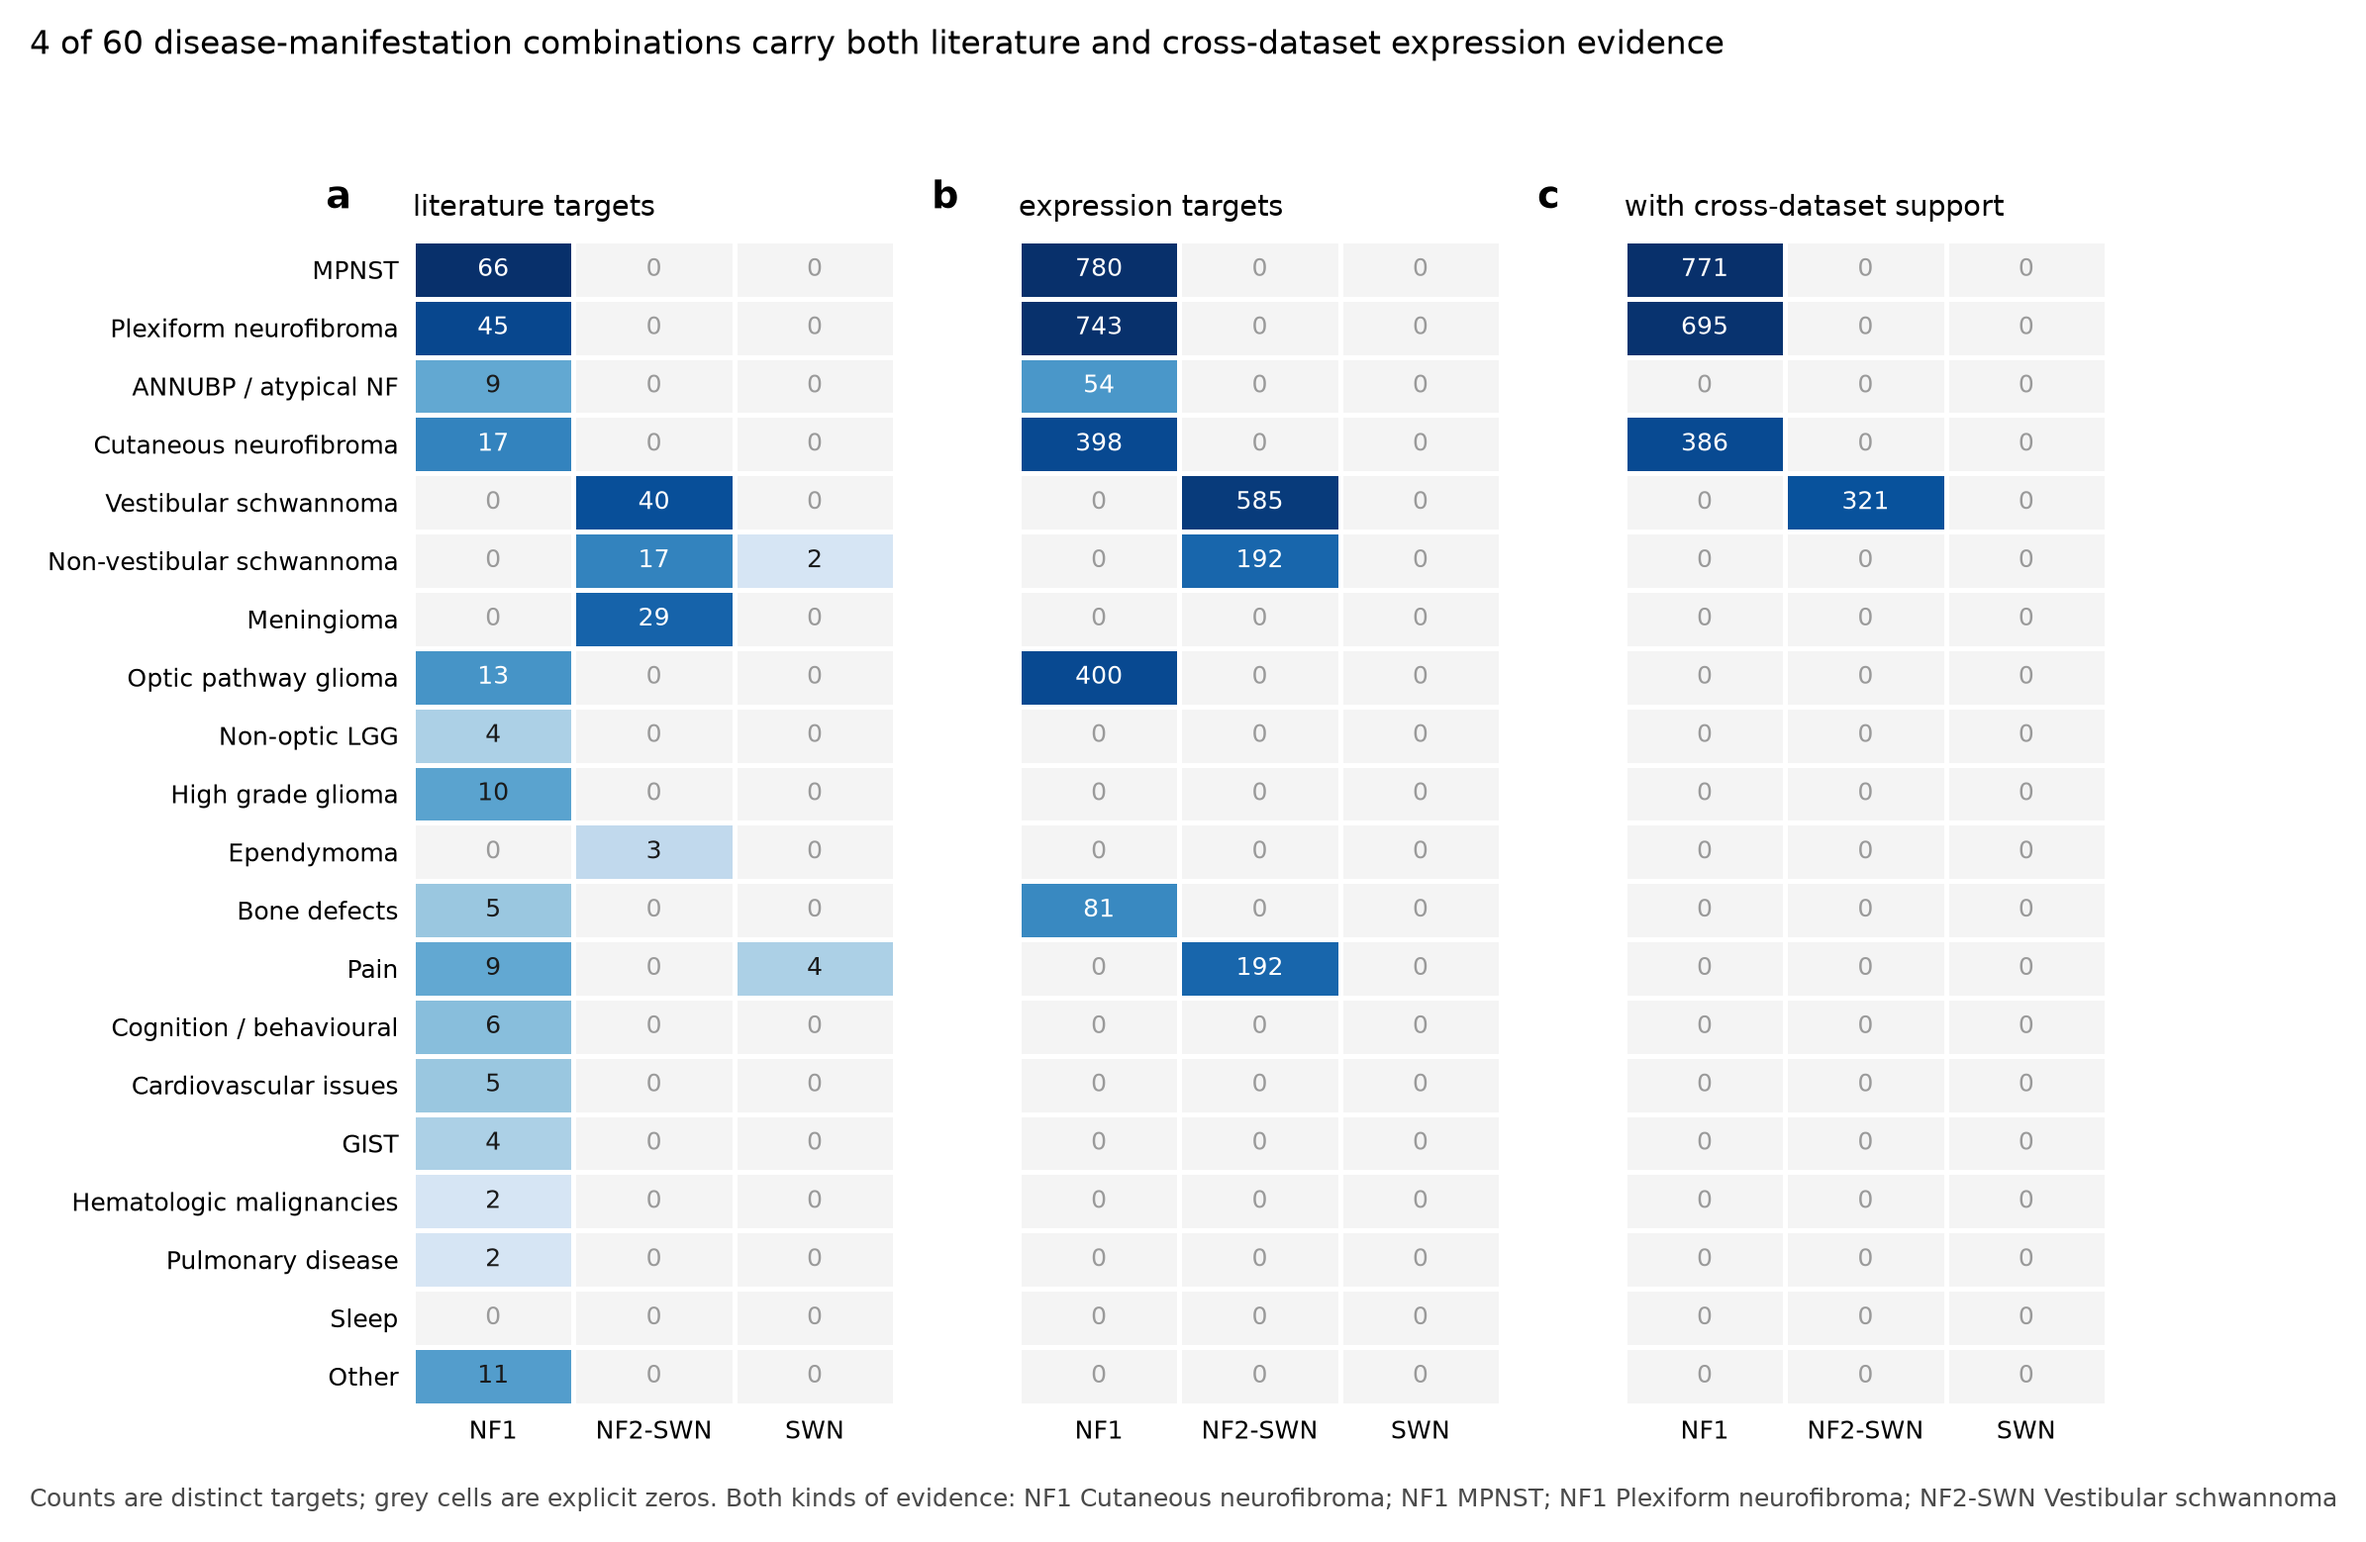
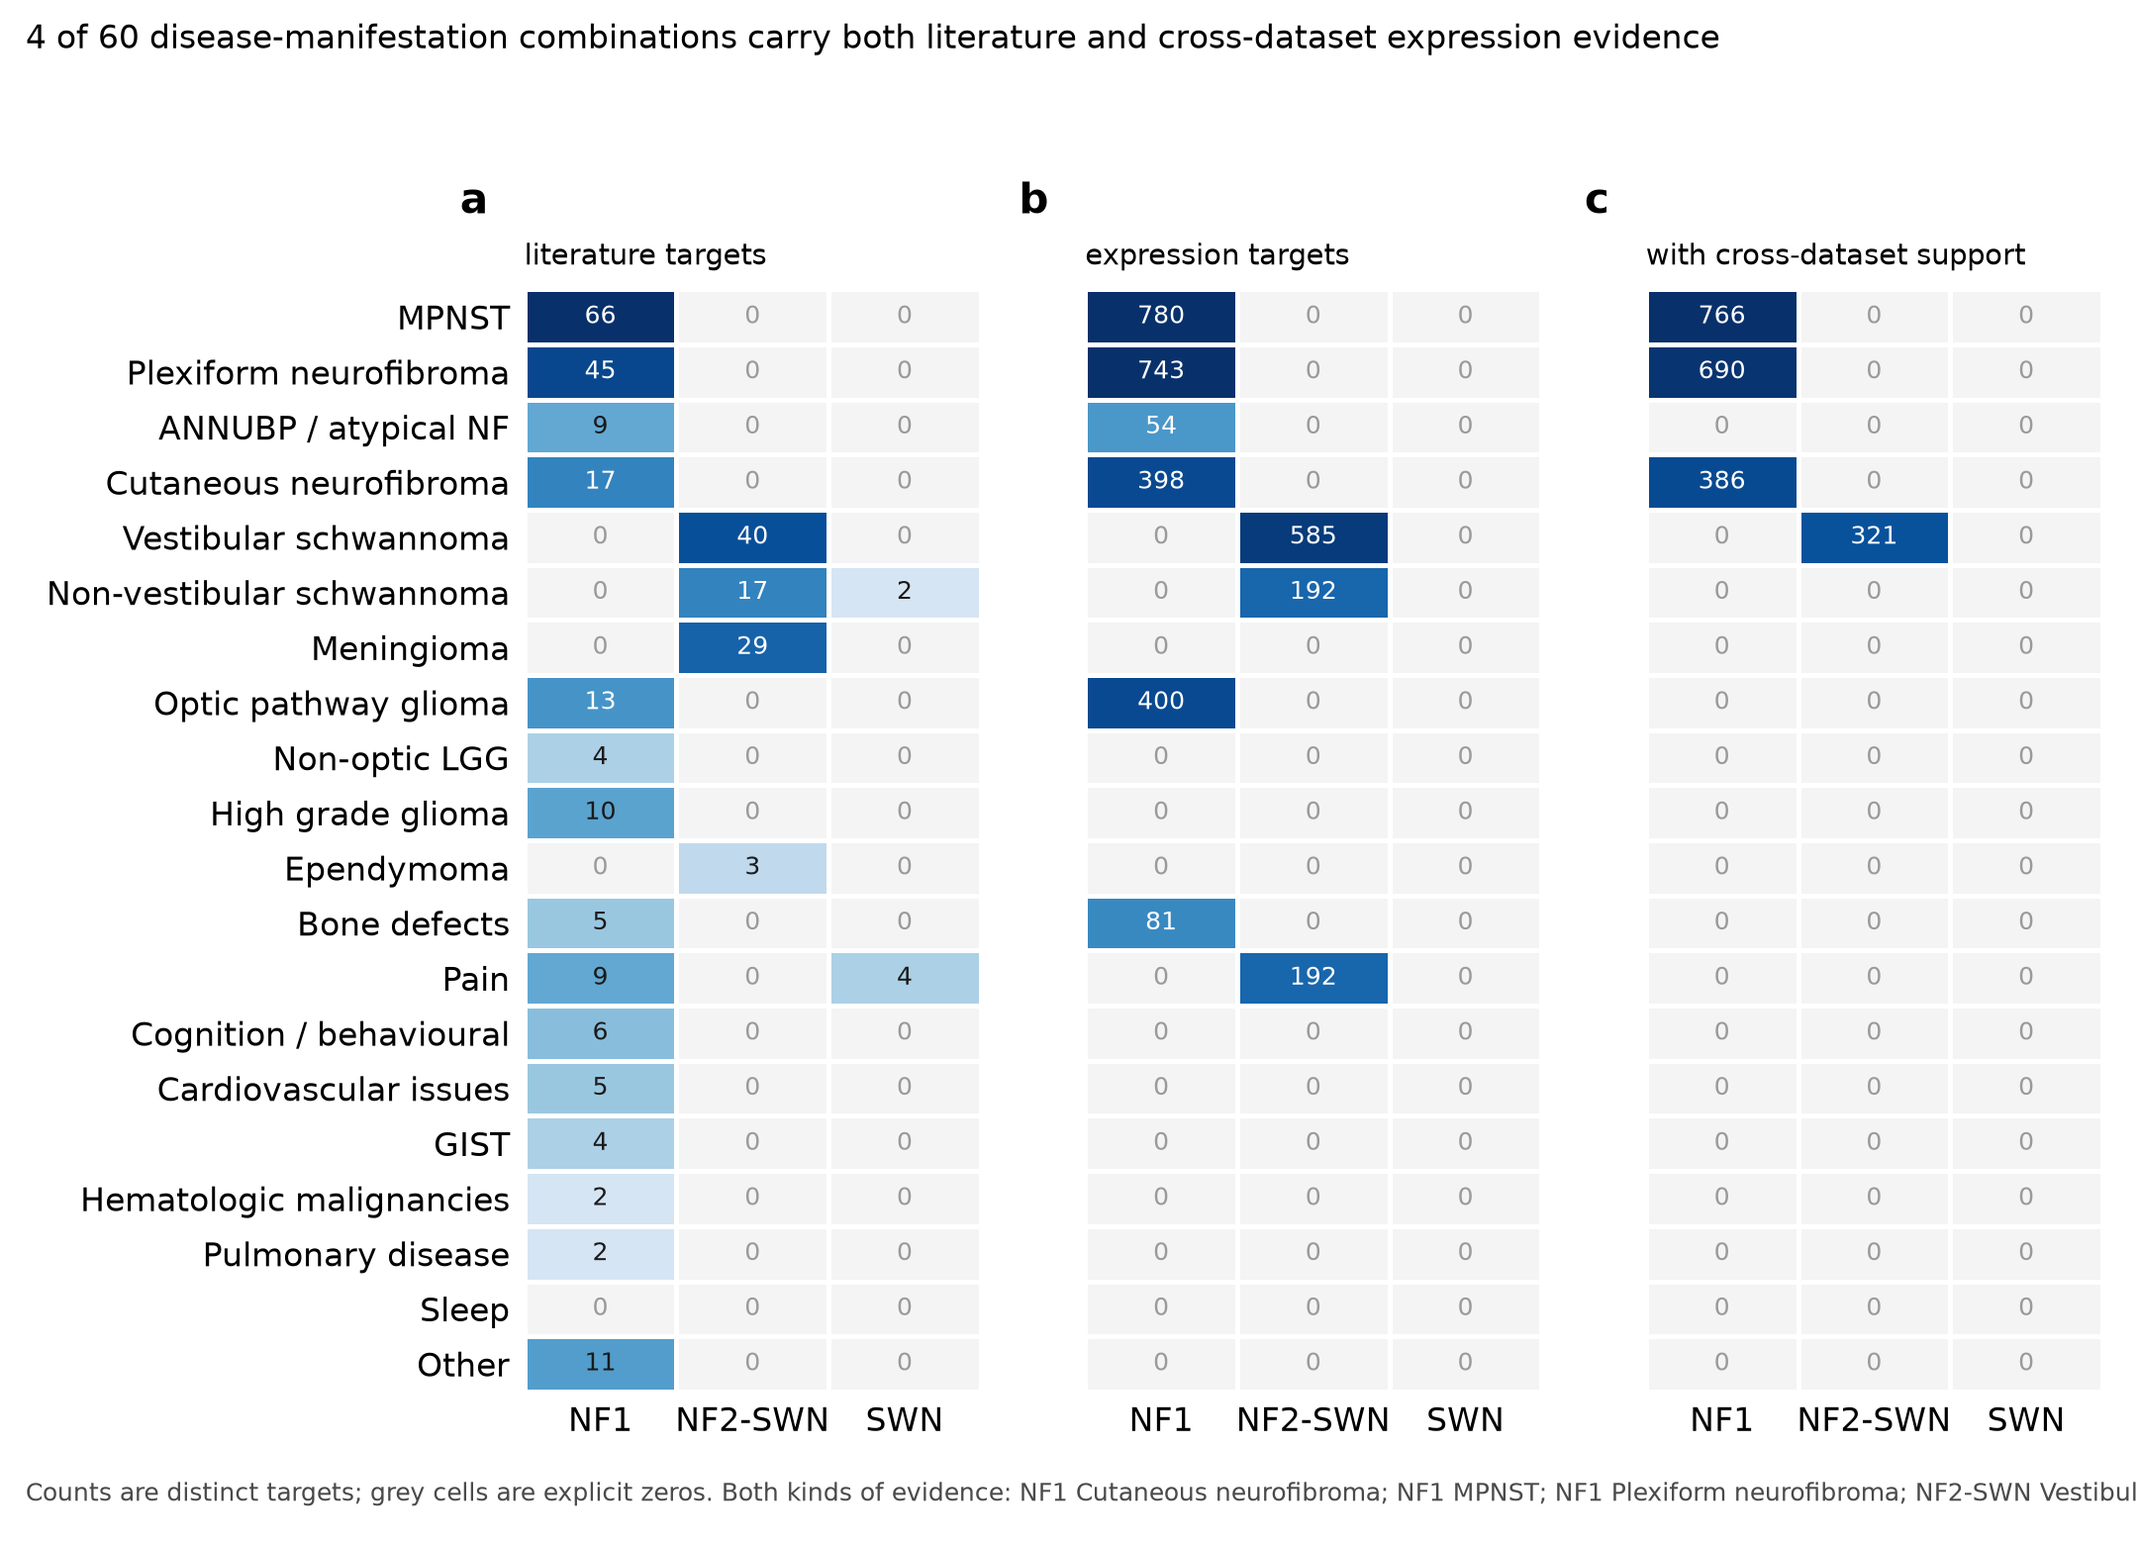
Count cross-dataset support as distinct genes, not tier A plus tier B
The Phase 3b coverage table reported cross-dataset support per disease and
manifestation as expr_targets_tier_a + expr_targets_tier_b. Both are distinct
gene counts, and a manifestation can draw on several strata, so a gene that is
tier A in one stratum and tier B in another was counted twice. Five genes are:
BCAT1, CTHRC1, HMGA2, ITGA6 and UNC5B, each tier A in nf1_mpnst_vs_benign_pnst
and tier B in nf1_pnst_vs_normal.

The count is now derived once in phase3b_coverage.py as the distinct genes at
either tier, written as expr_targets_cross_dataset, and both consumers read
that column instead of adding the two together. The stratum-level table is
unaffected: a row there belongs to one stratum and one tier, so the sum was
never double-counted and that code is unchanged.

Effect: NF1 MPNST 771 to 766, NF1 plexiform neurofibroma 695 to 690. Every
other row was already correct. Verified that the regenerated coverage table
changes no pre-existing value and adds only the new column, that the new
column matches an independent recount on all 60 rows, and that the stratum
summary is byte-identical.

diff --git a/phase-3b/scripts/phase3b_coverage.py b/phase-3b/scripts/phase3b_coverage.py
@@ -59,6 +59,9 @@ TIER_COLS = {
     "C_single_dataset": "expr_targets_tier_c",
 }
 
+# The tiers that mean more than one dataset backed the gene.
+CROSS_DATASET_TIERS = ["A_aggregated", "B_replicated"]
+
 
 def check_vocabulary(values, where: str) -> None:
     unknown = sorted(set(values) - set(MANIFESTATIONS))
@@ -117,6 +120,7 @@ def expression_cell(rows: pd.DataFrame) -> dict:
             "expr_targets_tier_a": 0,
             "expr_targets_tier_b": 0,
             "expr_targets_tier_c": 0,
+            "expr_targets_cross_dataset": 0,
             "expr_datasets": 0,
             "expr_strata": "",
             "expr_top_targets": "",
@@ -124,6 +128,14 @@ def expression_cell(rows: pd.DataFrame) -> dict:
     cell = {"expr_targets": rows["gene_symbol"].nunique()}
     for tier, col in TIER_COLS.items():
         cell[col] = rows.loc[rows["evidence_tier"] == tier, "gene_symbol"].nunique()
+    # Distinct genes with cross-dataset support, counted here rather than left to
+    # consumers to add the tier A and tier B columns together. A manifestation can
+    # draw on several strata, and a gene can be tier A in one and tier B in another,
+    # so those two columns overlap and their sum double-counts such a gene. Five
+    # genes currently sit in both for NF1 MPNST and plexiform neurofibroma.
+    cell["expr_targets_cross_dataset"] = rows.loc[
+        rows["evidence_tier"].isin(CROSS_DATASET_TIERS), "gene_symbol"
+    ].nunique()
     cell["expr_datasets"] = len(split_ids(rows["measuring_datasets"], ";"))
     cell["expr_strata"] = "; ".join(sorted(rows["comparison_class"].unique()))
     best = rows.sort_values(["evidence_tier", "rank_in_stratum"])

diff --git a/phase-3b/scripts/build_phase3b_report.py b/phase-3b/scripts/build_phase3b_report.py
@@ -41,7 +41,7 @@ def fmt_int(value) -> str:
 def build(root: Path) -> str:
     cov = pd.read_csv(root / "phase-3b/data/phase3b-coverage.csv")
     strata = pd.read_csv(root / "phase-3b/data/phase3b-stratum-summary.csv")
-    cov["cross_dataset"] = cov["expr_targets_tier_a"] + cov["expr_targets_tier_b"]
+    cov["cross_dataset"] = cov["expr_targets_cross_dataset"]
 
     selected = cov[cov["expr_targets"] > 0].copy()
     deferred_lit_only = cov[(cov["expr_targets"] == 0) & (cov["lit_targets"] > 0)].copy()

diff --git a/phase-3b/scripts/phase3b_figure.py b/phase-3b/scripts/phase3b_figure.py
@@ -109,7 +109,7 @@ def main() -> None:
     root = Path(args.repo).resolve()
 
     coverage = pd.read_csv(root / "phase-3b/data/phase3b-coverage.csv")
-    coverage["cross_dataset"] = coverage["expr_targets_tier_a"] + coverage["expr_targets_tier_b"]
+    coverage["cross_dataset"] = coverage["expr_targets_cross_dataset"]
 
     try:
         from figure_style import apply_figure_style, panel_letter

diff --git a/phase-3b/docs/phase3b-prioritisation.md b/phase-3b/docs/phase3b-prioritisation.md
@@ -14,8 +14,8 @@ Deprioritised combinations are deferred, not dropped: their Phase 1b rows stay i
 
 | Disease | Manifestation | Literature targets | Expression targets | Cross-dataset supported | Datasets | Overlap genes |
 | --- | --- | --- | --- | --- | --- | --- |
-| NF1 | Malignant peripheral nerve sheath tumor (MPNST) | 66 | 780 | 771 | 9 | 11 |
-| NF1 | Plexiform neurofibroma | 45 | 743 | 695 | 9 | 8 |
+| NF1 | Malignant peripheral nerve sheath tumor (MPNST) | 66 | 780 | 766 | 9 | 11 |
+| NF1 | Plexiform neurofibroma | 45 | 743 | 690 | 9 | 8 |
 | NF1 | Cutaneous neurofibroma | 17 | 398 | 386 | 2 | 0 |
 | NF1 | Bone defects | 5 | 81 | 0 | 2 | 0 |
 | NF1 | Optic pathway glioma | 13 | 400 | 0 | 1 | 1 |
